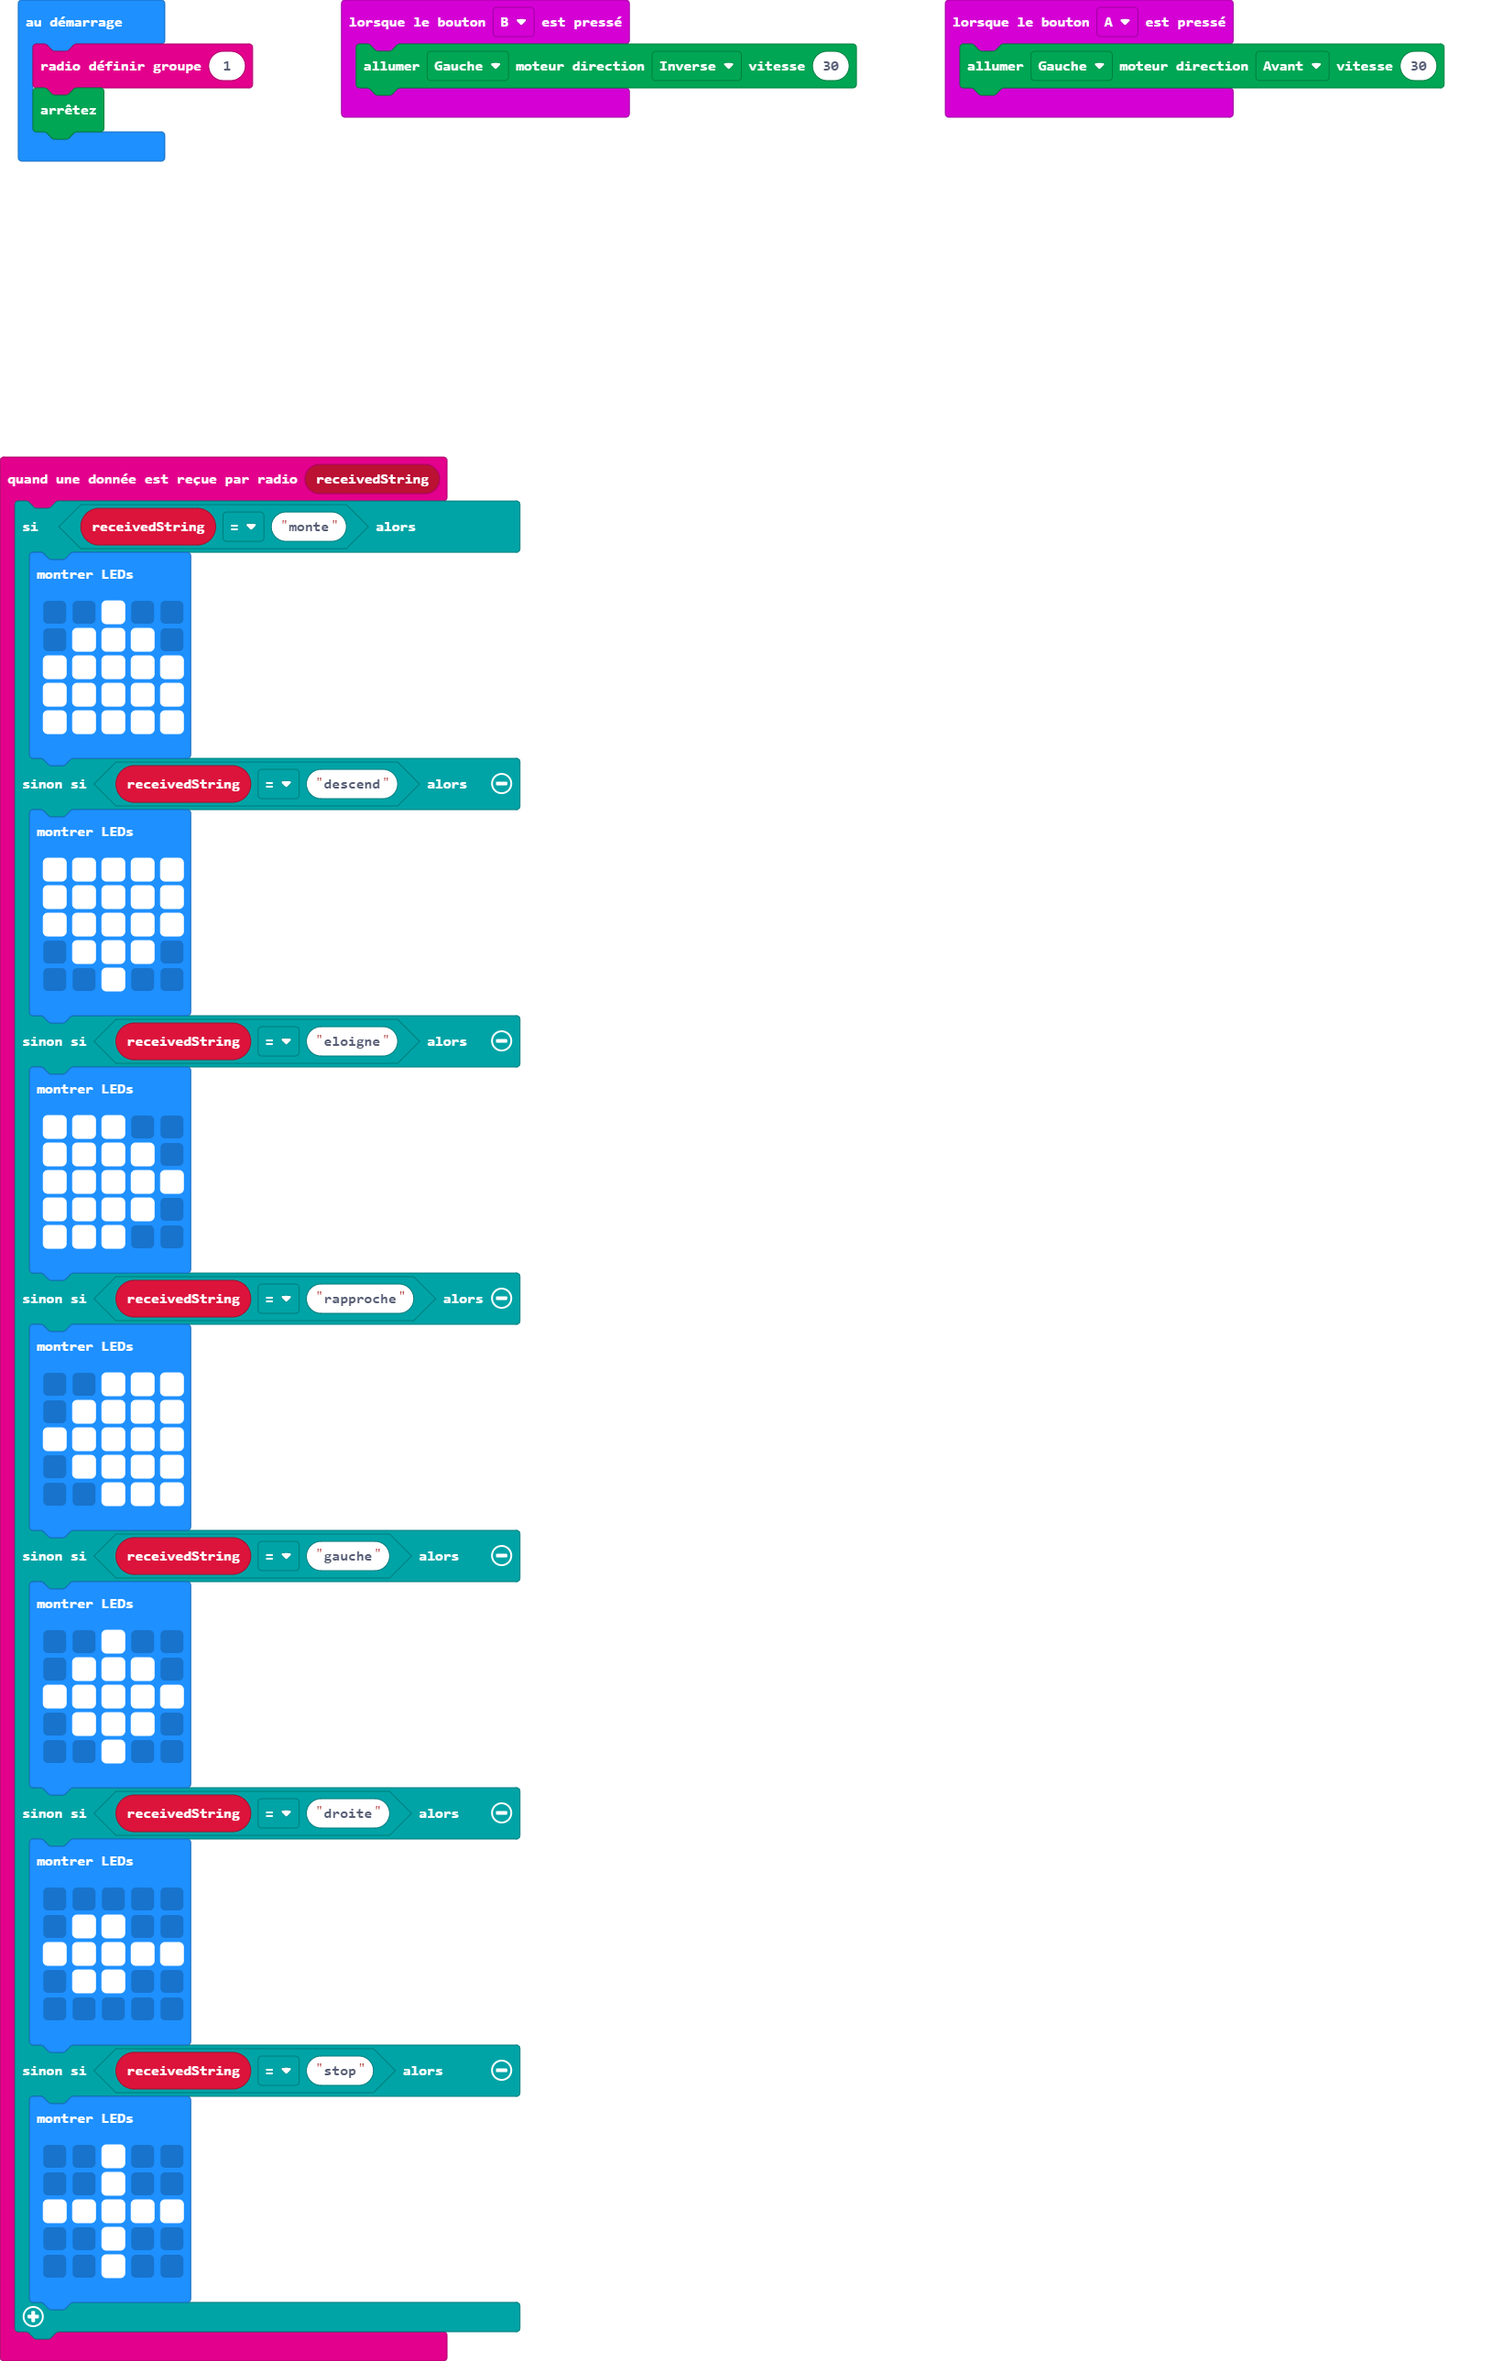
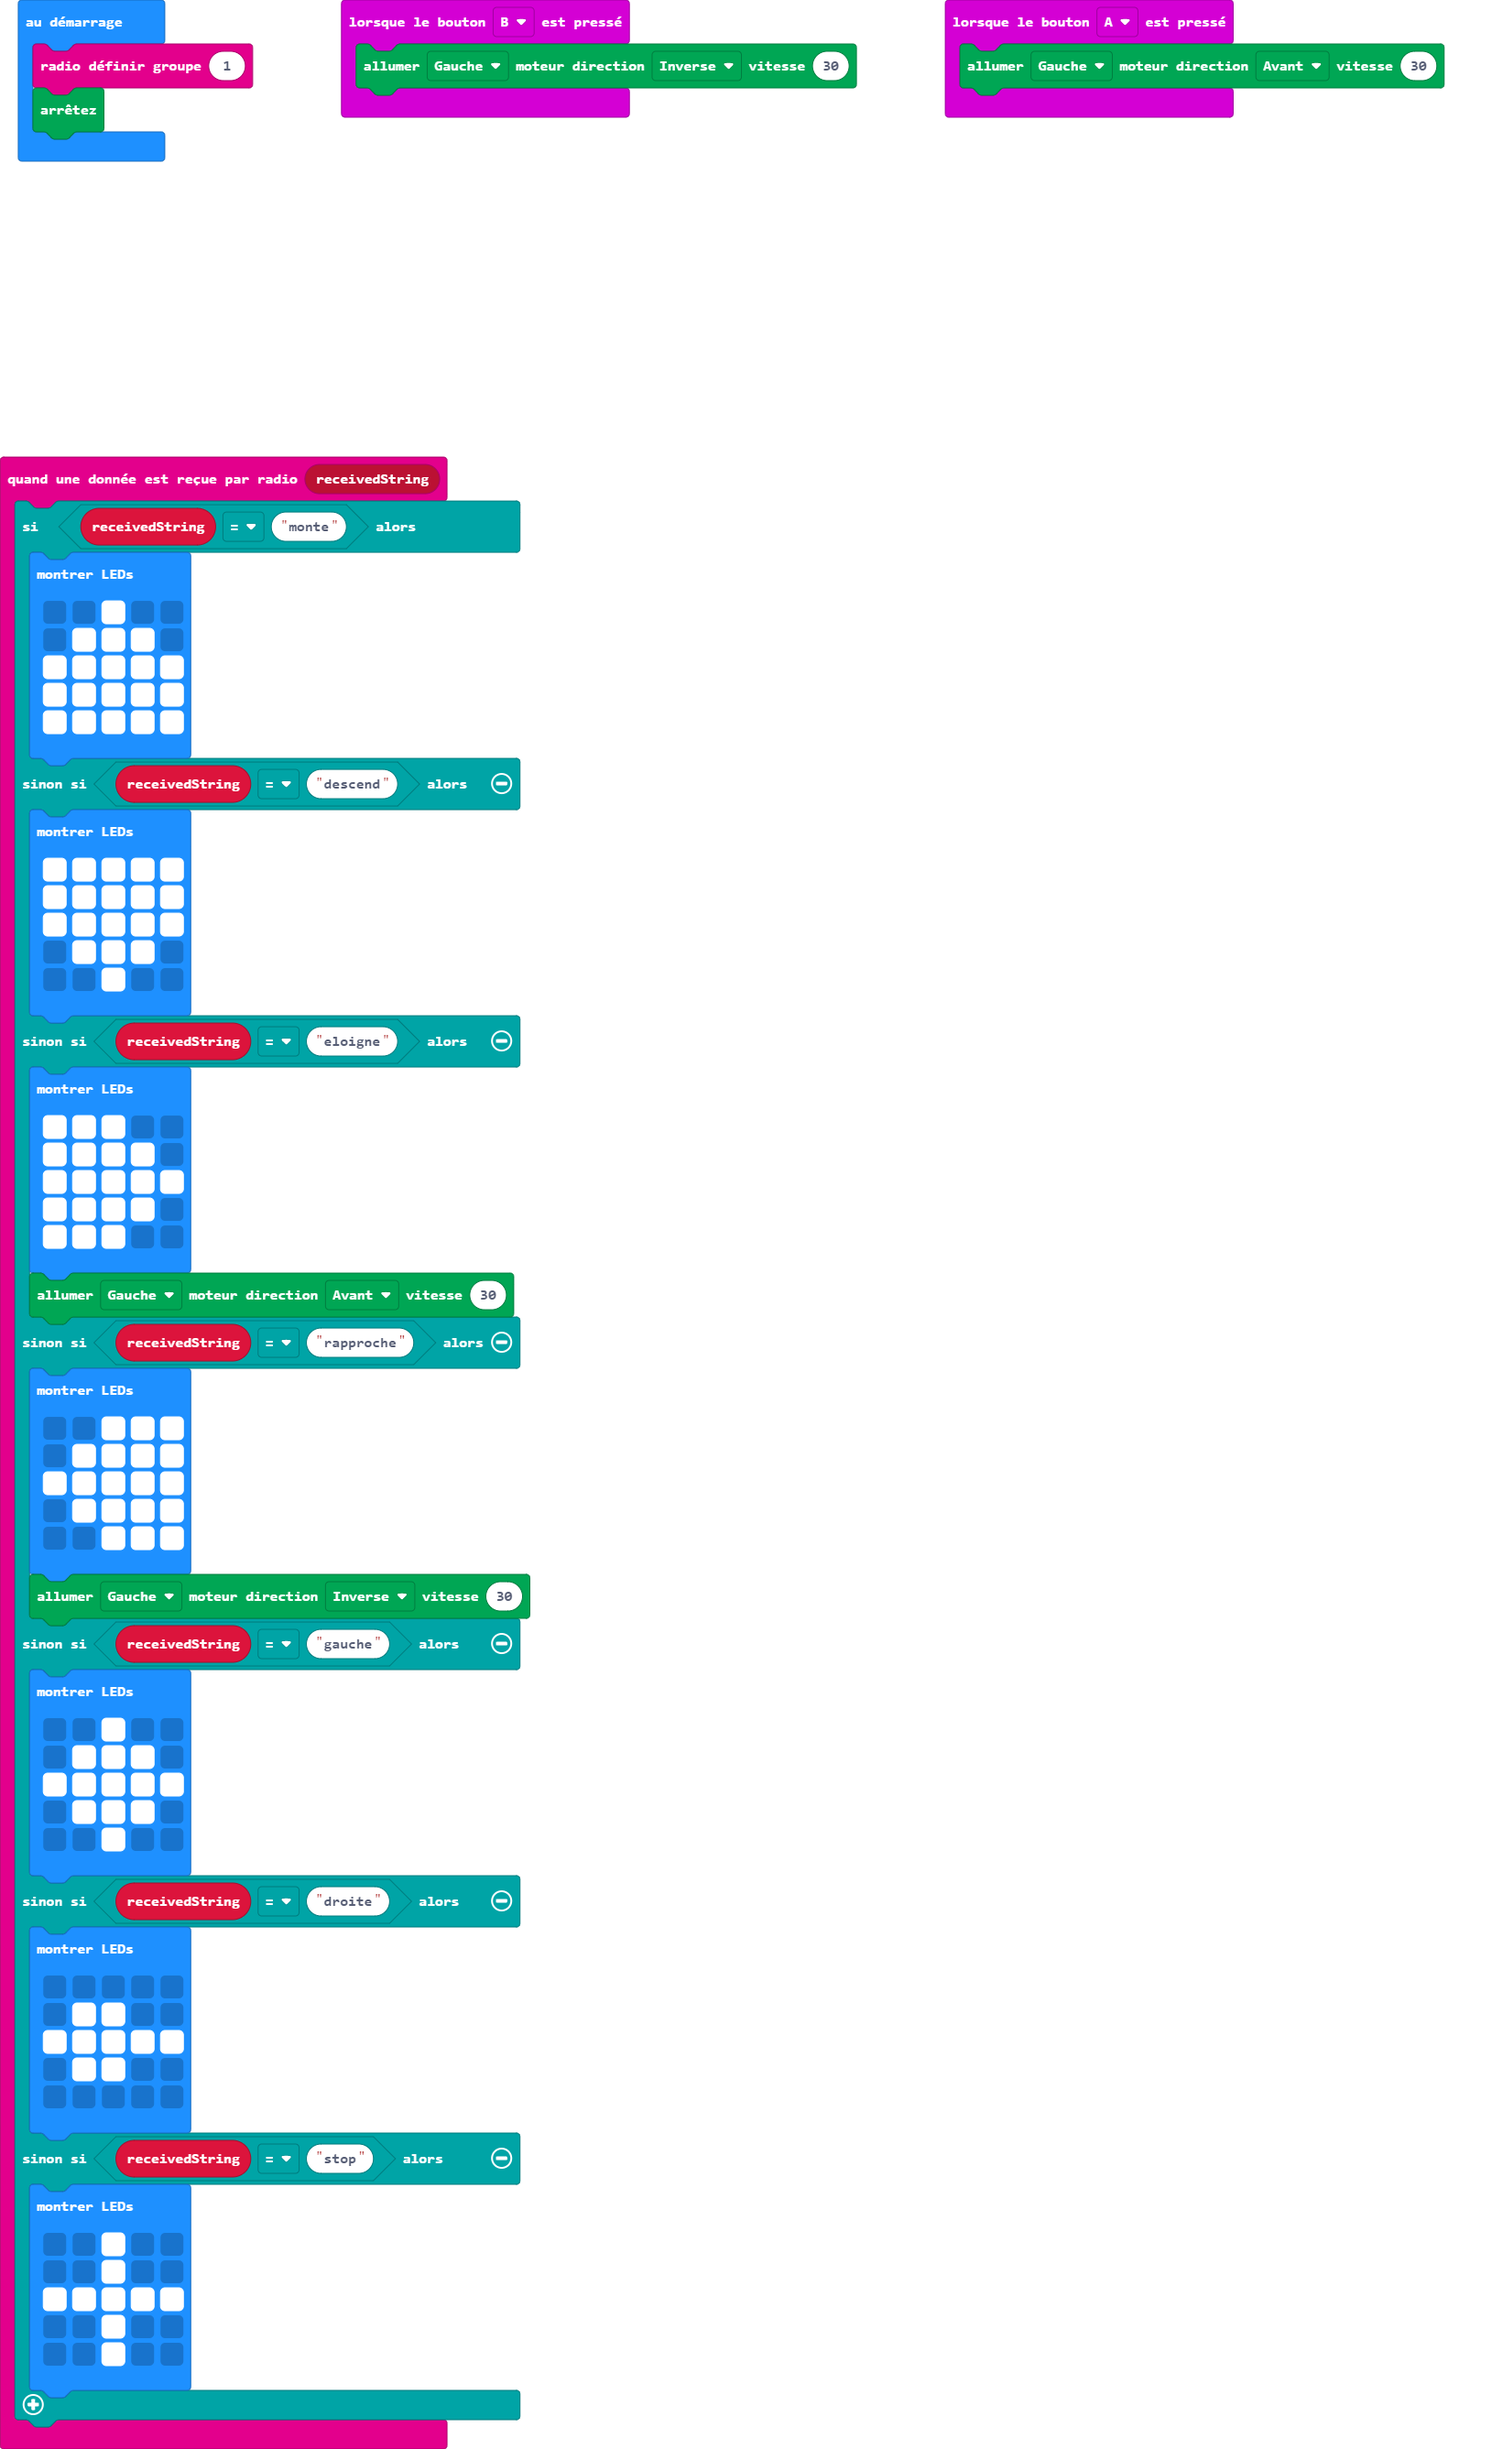
Mise à jour main.blocks, main.ts

diff --git a/main.ts b/main.ts
@@ -26,6 +26,7 @@ radio.onReceivedString(function (receivedString) {
             # # # # .
             # # # . .
             `)
+        Kitronik_Move_Motor.motorOn(Kitronik_Move_Motor.Motors.MotorLeft, Kitronik_Move_Motor.MotorDirection.Forward, 30)
     } else if (receivedString == "rapproche") {
         basic.showLeds(`
             . . # # #
@@ -34,6 +35,7 @@ radio.onReceivedString(function (receivedString) {
             . # # # #
             . . # # #
             `)
+        Kitronik_Move_Motor.motorOn(Kitronik_Move_Motor.Motors.MotorLeft, Kitronik_Move_Motor.MotorDirection.Reverse, 30)
     } else if (receivedString == "gauche") {
         basic.showLeds(`
             . . # . .
